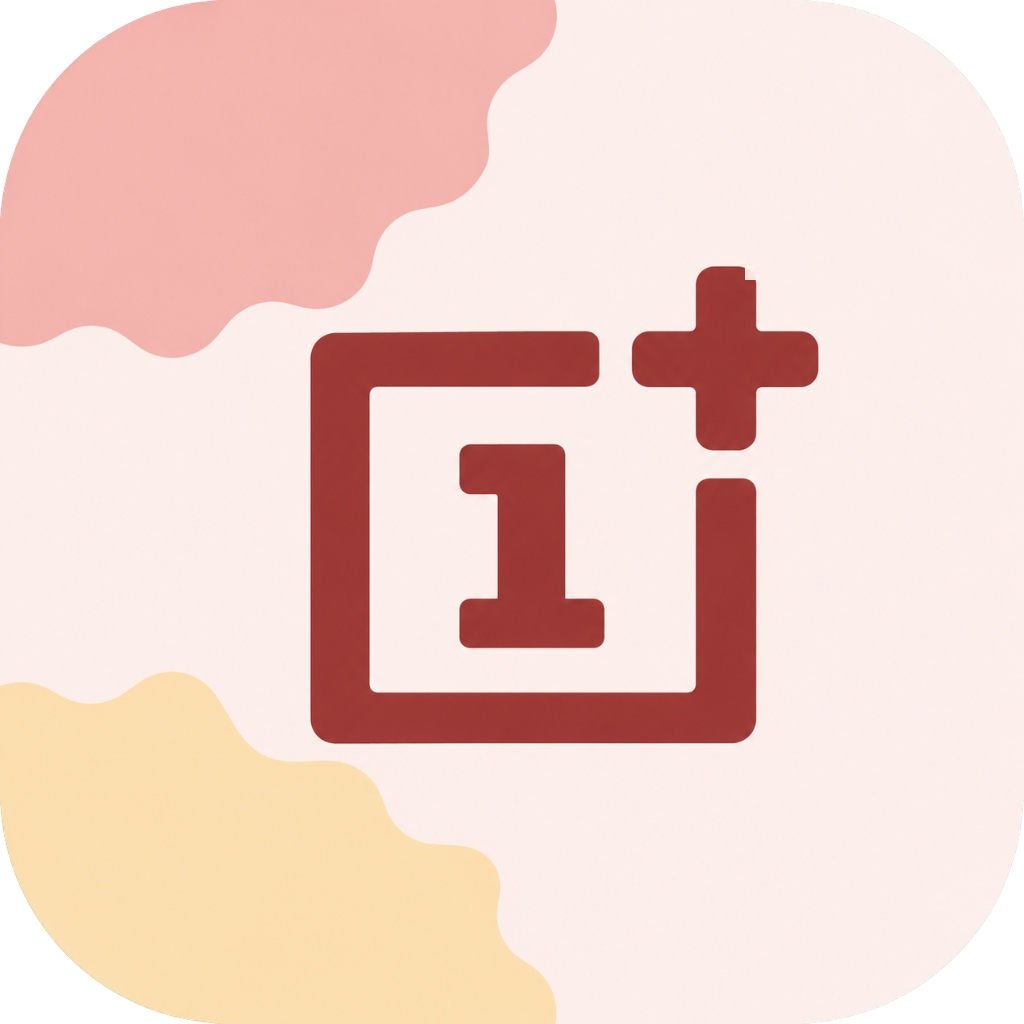
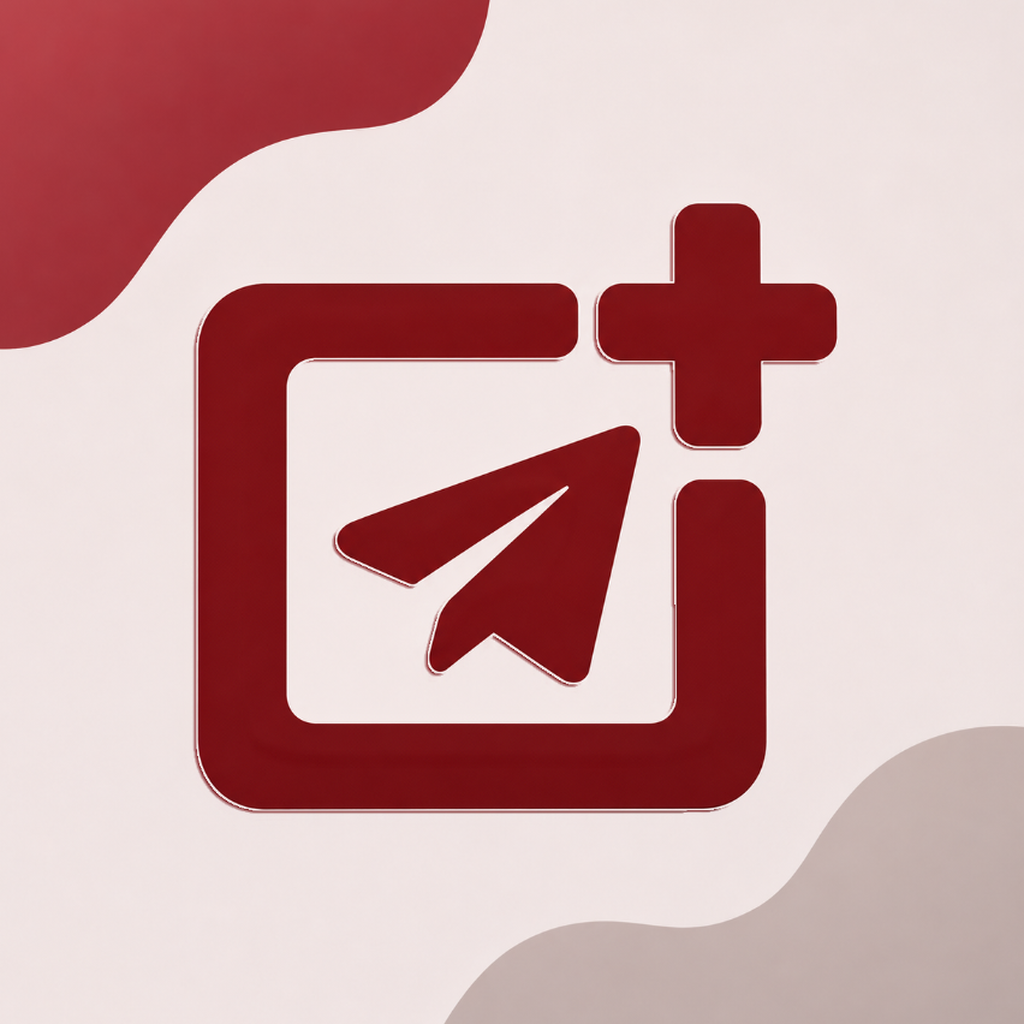
Release Plusgram 5.3.6 with smoother weather and new branding

diff --git a/Tools/prepare_plusgram_icons.py b/Tools/prepare_plusgram_icons.py
@@ -1,61 +1,37 @@
-from pathlib import Path
 import argparse
-from PIL import Image, ImageDraw, ImageOps, ImageChops
-import numpy as np
+from pathlib import Path
+
+from PIL import Image, ImageChops, ImageDraw, ImageOps
 
 ROOT = Path(__file__).resolve().parents[1]
 RES = ROOT / 'TMessagesProj/src/main/res'
 
 
-def remove_black_corners(image_rgb: Image.Image) -> Image.Image:
-    """Removes outer black background from a rounded squircle image with smooth antialiasing."""
-    arr = np.array(image_rgb.convert('RGB')).astype(float)
-    lum = 0.299 * arr[:, :, 0] + 0.587 * arr[:, :, 1] + 0.114 * arr[:, :, 2]
-    H, W = lum.shape
+def adaptive_layer(canvas: Image.Image, scale: float) -> Image.Image:
+    # The central 72dp match the square preview. Extend edge colors into the
+    # extra 18dp on each side so launcher motion cannot expose a seam.
+    size = round(108 * scale)
+    inset = round(18 * scale)
+    art_size = size - 2 * inset
+    art = canvas.resize((art_size, art_size), Image.Resampling.LANCZOS)
+    strip = Image.new('RGBA', (size, art_size))
+    strip.paste(art, (inset, 0))
+    for edge, left in [(0, 0), (art_size - 1, inset + art_size)]:
+        column = art.crop((edge, 0, edge + 1, art_size))
+        strip.paste(column.resize((inset, art_size), Image.Resampling.NEAREST), (left, 0))
 
-    alpha = np.ones((H, W), dtype=float) * 255.0
-
-    # Corners region: x < 280 or x > W - 280, y < 280 or y > H - 280
-    for y in range(H):
-        for x in range(W):
-            if (x < 280 or x > W - 280) and (y < 280 or y > H - 280):
-                # Expected background color of the squircle in this corner
-                if x < W / 2 and y < H / 2:
-                    bg_lum = 198.0  # top-left pink
-                elif x < W / 2 and y >= H / 2:
-                    bg_lum = 220.0  # bottom-left yellow
-                else:
-                    bg_lum = 243.0  # right side cream
-
-                val = lum[y, x] / bg_lum
-                val = max(0.0, min(1.0, val))
-
-                if val < 0.05:
-                    alpha[y, x] = 0.0
-                    arr[y, x] = [0.0, 0.0, 0.0]
-                elif val > 0.95:
-                    alpha[y, x] = 255.0
-                else:
-                    a = ((val - 0.05) / 0.90) * 255.0
-                    alpha[y, x] = a
-                    # Unpremultiply so there is no dark fringe at the border
-                    a_frac = max(0.01, a / 255.0)
-                    arr[y, x] = np.clip(arr[y, x] / a_frac, 0, 255)
-
-    rgba = np.dstack([arr.astype(np.uint8), alpha.astype(np.uint8)])
-    return Image.fromarray(rgba, 'RGBA')
+    layer = Image.new('RGBA', (size, size))
+    layer.paste(strip, (0, inset))
+    for edge, top in [(0, 0), (art_size - 1, inset + art_size)]:
+        row = strip.crop((0, edge, size, edge + 1))
+        layer.paste(row.resize((size, inset), Image.Resampling.NEAREST), (0, top))
+    return layer
 
 
 def generate_icons(source_path: Path):
-    source_raw = Image.open(source_path)
-    # Remove black corners if present
-    artwork = remove_black_corners(source_raw)
+    with Image.open(source_path) as artwork:
+        canvas = ImageOps.fit(artwork.convert('RGBA'), (1024, 1024), Image.Resampling.LANCZOS)
 
-    square = ImageOps.contain(artwork, (1024, 1024), Image.Resampling.LANCZOS)
-    canvas = Image.new('RGBA', (1024, 1024), (0, 0, 0, 0))
-    canvas.alpha_composite(square, ((1024 - square.width) // 2, (1024 - square.height) // 2))
-
-    # Save master assets
     canvas.save(ROOT / 'assets/plusgram-icon-source.png')
     canvas.resize((512, 512), Image.Resampling.LANCZOS).save(ROOT / 'assets/logo.png')
 
@@ -70,23 +46,17 @@ def generate_icons(source_path: Path):
         icon.save(mipmap / 'ic_launcher.png')
         icon.save(drawable / 'plusgram_icon.png')
 
-        # Round icon with circular mask
-        mask = Image.new('L', (size * 4, size * 4), 0)
+        mask = Image.new('L', (size * 4, size * 4))
         ImageDraw.Draw(mask).ellipse((0, 0, size * 4 - 1, size * 4 - 1), fill=255)
         mask = mask.resize((size, size), Image.Resampling.LANCZOS)
         rounded = icon.copy()
         rounded.putalpha(ImageChops.multiply(icon.getchannel('A'), mask))
         rounded.save(mipmap / 'ic_launcher_round.png')
 
-        # Adaptive icon foreground (108x108 with 72x72 safe artwork)
-        layer_size = round(108 * scale)
-        artwork_size = round(72 * scale)
-        layer = Image.new('RGBA', (layer_size, layer_size), (0, 0, 0, 0))
-        offset = (layer_size - artwork_size) // 2
-        layer.alpha_composite(canvas.resize((artwork_size, artwork_size), Image.Resampling.LANCZOS), (offset, offset))
+        layer = adaptive_layer(canvas, scale)
         layer.save(drawable / 'plusgram_icon_foreground.png')
+        layer.save(mipmap / 'ic_launcher_foreground.png')
 
-    # XML resources
     adaptive = '''<?xml version="1.0" encoding="utf-8"?>
 <adaptive-icon xmlns:android="http://schemas.android.com/apk/res/android">
     <background android:drawable="@drawable/plusgram_icon_background" />
@@ -101,17 +71,18 @@ def generate_icons(source_path: Path):
     (RES / 'drawable').mkdir(parents=True, exist_ok=True)
     (RES / 'drawable/plusgram_icon_background.xml').write_text('''<?xml version="1.0" encoding="utf-8"?>
 <shape xmlns:android="http://schemas.android.com/apk/res/android" android:shape="rectangle">
-    <solid android:color="#FCEDEA" />
+    <solid android:color="#F0E3E1" />
 </shape>
 ''', encoding='utf-8')
 
-    mark = '''<path android:fillColor="#00000000" android:strokeColor="#FFFFFFFF"
-        android:strokeWidth="1.8" android:strokeLineCap="round" android:strokeLineJoin="round"
-        android:pathData="M12,5 H5 V19 H19 V12 M16,5 H21 M18.5,2.5 V7.5 M10,9 H12 V16 M10,16 H14" />'''
+    mark = '''<path android:fillColor="#FFFFFFFF"
+        android:pathData="M13,4.5 H5 Q2.5,4.5 2.5,7 V20 Q2.5,22.5 5,22.5 H18 Q20.5,22.5 20.5,20 V12.4 A1.45,1.45 0 0,0 17.6,12.4 V18.7 Q17.6,19.6 16.7,19.6 H6.3 Q5.4,19.6 5.4,18.7 V8.3 Q5.4,7.4 6.3,7.4 H13 A1.45,1.45 0 0,0 13,4.5 Z
+                          M18,4.5 V2.8 A1.4,1.4 0 0,1 20.8,2.8 V4.5 H22.5 A1.4,1.4 0 0,1 22.5,7.3 H20.8 V9 A1.4,1.4 0 0,1 18,9 V7.3 H16.3 A1.4,1.4 0 0,1 16.3,4.5 Z
+                          M7.5,13 L15.8,9.8 Q16.7,9.5 16.5,10.4 L15,17 Q14.8,17.8 14.1,17.3 L12.1,15.9 L10.6,17.1 Q10,17.6 10.1,16.8 L10.4,15 L14.2,11.7 L9.5,14.6 L7.5,13.8 Q6.7,13.4 7.5,13 Z" />'''
     for name, size, transform in [
-        ('plusgram_icon_monochrome', 108, '<group android:scaleX="2.5" android:scaleY="2.5" android:translateX="24" android:translateY="24">'),
-        ('plusgram_icon_tile', 24, '<group>'),
-        ('plusgram_notification', 24, '<group>'),
+        ('plusgram_icon_monochrome', 108, '<group android:scaleX="2.5" android:scaleY="2.5" android:translateX="21" android:translateY="24">'),
+        ('plusgram_icon_tile', 24, '<group android:translateX="-1.2">'),
+        ('plusgram_notification', 24, '<group android:translateX="-1.2">'),
     ]:
         xml = f'''<?xml version="1.0" encoding="utf-8"?>
 <vector xmlns:android="http://schemas.android.com/apk/res/android" android:width="{size}dp" android:height="{size}dp" android:viewportWidth="{size}" android:viewportHeight="{size}">
@@ -120,7 +91,7 @@ def generate_icons(source_path: Path):
 '''
         (RES / 'drawable' / f'{name}.xml').write_text(xml, encoding='utf-8')
 
-    print('Successfully generated all Plusgram icon assets with clean alpha.')
+    print('Successfully generated all Plusgram icon assets.')
 
 
 if __name__ == '__main__':

diff --git a/TMessagesProj/src/main/java/com/plusgram/app/appearance/HeaderWeatherEffect.java b/TMessagesProj/src/main/java/com/plusgram/app/appearance/HeaderWeatherEffect.java
@@ -25,11 +25,13 @@ public final class HeaderWeatherEffect {
     public static final int RAIN = 6;
 
     private static final int DROPS_PER_LAYER = 18;
+    private static final int FRAME_INTERVAL_MS = 33;
     private final Paint paint = new Paint(Paint.ANTI_ALIAS_FLAG | Paint.FILTER_BITMAP_FLAG);
     private final Path lightning = new Path();
     private final Path lightningBranches = new Path();
     private final Random random = new Random();
     private long animationStarted;
+    private long nextFrameAt;
     private int currentEffect;
     private int width;
     private int height;
@@ -77,10 +79,13 @@ public final class HeaderWeatherEffect {
             animationStarted = now;
         }
         boolean animate = MotionConfig.enabled();
-        float seconds = animate ? ((now - animationStarted) / 33) * .033f : 0f;
+        long elapsed = now - animationStarted;
+        float seconds = animate ? (elapsed / FRAME_INTERVAL_MS) * (FRAME_INTERVAL_MS / 1000f) : 0f;
         drawFrame(canvas, effect, view.getWidth(), top, bottom, dark, seconds, animate);
-        if (animate && view.isShown() && view.getWindowVisibility() == View.VISIBLE) {
-            view.postInvalidateDelayed(33);
+        if (animate && now >= nextFrameAt && view.getWindowVisibility() == View.VISIBLE && view.isShown()) {
+            long delay = FRAME_INTERVAL_MS - elapsed % FRAME_INTERVAL_MS;
+            nextFrameAt = now + delay;
+            view.postInvalidateDelayed(delay, 0, top, view.getWidth(), bottom);
         }
     }
 
@@ -111,9 +116,9 @@ public final class HeaderWeatherEffect {
         auroraBounds.set(0, 0, width, height);
         auroraMist = haze(width * .69f, height * .56f, width * .60f, height * .49f,
                 dark ? 0x586B94CF : 0x376EA6BB);
-        cloudBank = haze(width * .70f, height * .15f, width * .64f, height * .75f,
+        cloudBank = haze(width * .70f, height * .36f, width * .72f, height * .36f,
                 dark ? 0xAA4F6290 : 0x807583A0);
-        cloudVeil = haze(width * .42f, height * .42f, width * .55f, height * .48f,
+        cloudVeil = haze(width * .42f, height * .54f, width * .65f, height * .42f,
                 dark ? 0x894E7292 : 0x6A7896A9);
         lightningGlow = new RadialGradient(0, 0, 1f,
                 dark ? 0x805F81F7 : 0x58617DEC, 0x00516ED6, Shader.TileMode.CLAMP);
@@ -234,11 +239,14 @@ public final class HeaderWeatherEffect {
             float y = fraction * (height + 2 * length) - length;
             float column = drop.column + pass * drop.step;
             float x = (column - (float) Math.floor(column)) * width - y * wind;
-            float edgeFade = Math.min(1f, Math.min(fraction, 1f - fraction) * 6f);
+            float tailY = y - length;
+            // Fade the whole streak clear of the toolbar edges, including its rounded tips.
+            float edgeFade = smoothstep((Math.min(tailY, height - y) - height * drop.thickness * .5f)
+                    / (height * .20f));
             float contrast = .55f + .45f * Math.min(1f, x / width + .18f);
             int opacity = (int) (drop.opacity * edgeFade * contrast * (storm ? 1.15f : 1f));
+            if (opacity == 0) continue;
             float tailX = x + length * wind;
-            float tailY = y - length;
             float midX = (x + tailX) * .5f;
             float midY = (y + tailY) * .5f;
             paint.setStrokeWidth(height * drop.thickness);
@@ -256,8 +264,8 @@ public final class HeaderWeatherEffect {
         if (boltCycle != cycle) prepareBolt(cycle);
         float brightness = 1f - age / .46f;
         brightness *= brightness;
-        glowPosition.setScale(height * 1.9f, height * .65f);
-        glowPosition.postTranslate(boltX, height * .37f);
+        glowPosition.setScale(height * 1.9f, height * .40f);
+        glowPosition.postTranslate(boltX, height * .43f);
         lightningGlow.setLocalMatrix(glowPosition);
         wash(canvas, lightningGlow, (int) (brightness * 150));
 
@@ -281,13 +289,13 @@ public final class HeaderWeatherEffect {
         random.setSeed(93L + cycle);
         boltX = width * (.52f + .20f * random.nextFloat());
         float x = boltX;
-        float y = height * .06f;
+        float y = height * .10f;
         lightning.rewind();
         lightningBranches.rewind();
         lightning.moveTo(x, y);
         for (int i = 0; i < 9; i++) {
             x += height * (.3f * random.nextFloat() - .16f);
-            y += height * (.055f + .026f * random.nextFloat());
+            y += height * (.050f + .019f * random.nextFloat());
             lightning.lineTo(x, y);
             if (i == 2 || i == 4 || i == 6) {
                 float direction = i == 4 ? -1f : 1f;

diff --git a/TMessagesProj/src/main/java/org/telegram/messenger/ApplicationLoader.java b/TMessagesProj/src/main/java/org/telegram/messenger/ApplicationLoader.java
@@ -76,7 +76,6 @@ public class ApplicationLoader extends Application implements CameraXConfig.Prov
 
     public static ApplicationLoader applicationLoaderInstance;
 
-    private static PendingIntent pendingIntent;
 
     @SuppressLint("StaticFieldLeak")
     public static volatile Context applicationContext;
@@ -469,33 +468,31 @@ public class ApplicationLoader extends Application implements CameraXConfig.Prov
             editor.apply();
             ConnectionsManager.getInstance(UserConfig.selectedAccount).setPushConnectionEnabled(enabled);
         }
-        if (enabled) {
-            AndroidUtilities.runOnUIThread(() -> {
+        AndroidUtilities.runOnUIThread(() -> {
+            Intent intent = new Intent(applicationContext, NotificationsService.class);
+            AlarmManager alarm = (AlarmManager) applicationContext.getSystemService(Context.ALARM_SERVICE);
+            if (enabled) {
                 try {
                     Log.d("TFOSS", "Starting push service...");
-                    applicationContext.startForegroundService(new Intent(applicationContext, NotificationsService.class));
+                    applicationContext.startForegroundService(intent);
 
-                    Log.d("TFOSS", "Trying to start push service every 10 minutes");
-                    // Telegram-FOSS: unconditionally enable push service
-                    AlarmManager am = (AlarmManager) applicationContext.getSystemService(Context.ALARM_SERVICE);
-                    Intent i = new Intent(applicationContext, NotificationsService.class);
-                    pendingIntent = PendingIntent.getForegroundService(applicationContext, 0, i, PendingIntent.FLAG_IMMUTABLE);
-
-                    am.cancel(pendingIntent);
-                    am.setInexactRepeating(AlarmManager.RTC_WAKEUP, System.currentTimeMillis(), 10 * 60 * 1000, pendingIntent);
+                    PendingIntent restart = PendingIntent.getForegroundService(applicationContext, 0, intent, PendingIntent.FLAG_IMMUTABLE);
+                    long interval = 10 * 60 * 1000L;
+                    alarm.setInexactRepeating(AlarmManager.ELAPSED_REALTIME_WAKEUP,
+                            SystemClock.elapsedRealtime() + interval, interval, restart);
                 } catch (Throwable e) {
-                    Log.e("TFOSS", "Failed to start push service");
+                    Log.e("TFOSS", "Failed to start push service", e);
                 }
-            });
-
-        } else AndroidUtilities.runOnUIThread(() -> {
-            applicationContext.stopService(new Intent(applicationContext, NotificationsService.class));
-
-            PendingIntent pintent = PendingIntent.getService(applicationContext, 0, new Intent(applicationContext, NotificationsService.class), PendingIntent.FLAG_MUTABLE);
-            AlarmManager alarm = (AlarmManager)applicationContext.getSystemService(Context.ALARM_SERVICE);
-            alarm.cancel(pintent);
-            if (pendingIntent != null) {
-                alarm.cancel(pendingIntent);
+            } else {
+                if (Build.VERSION.SDK_INT >= Build.VERSION_CODES.O) {
+                    PendingIntent restart = PendingIntent.getForegroundService(applicationContext, 0, intent,
+                            PendingIntent.FLAG_NO_CREATE | PendingIntent.FLAG_IMMUTABLE);
+                    if (restart != null) {
+                        alarm.cancel(restart);
+                        restart.cancel();
+                    }
+                }
+                applicationContext.stopService(intent);
             }
         });
     }
@@ -524,8 +521,8 @@ public class ApplicationLoader extends Application implements CameraXConfig.Prov
                 }
                 SharedConfig.pushStringStatus = "__NO_GOOGLE_PLAY_SERVICES__";
                 PushListenerController.sendRegistrationToServer(getPushProvider().getPushType(), null);
-                startPushService();
             }
+            startPushService();
         }, 1000);
     }
 

diff --git a/TMessagesProj/src/main/java/org/telegram/ui/Cells/ThemePreviewMessagesCell.java b/TMessagesProj/src/main/java/org/telegram/ui/Cells/ThemePreviewMessagesCell.java
@@ -84,6 +84,9 @@ public class ThemePreviewMessagesCell extends LinearLayout {
     @SuppressLint("ClickableViewAccessibility")
     public ThemePreviewMessagesCell(Context context, INavigationLayout layout, int type, long dialogId, Theme.ResourcesProvider resourcesProvider) {
         super(context);
+        if (Theme.chat_msgInDrawable == null) {
+            Theme.createChatResources(context, false);
+        }
         this.type = type;
         int currentAccount = UserConfig.selectedAccount;
         parentLayout = layout;

diff --git a/RELEASE_NOTES.md b/RELEASE_NOTES.md
@@ -1,4 +1,11 @@
-# Plusgram 5.3.5
+# Plusgram 5.3.6
+
+- Softened the edges of Rain and Thunderstorm so clouds, raindrops, and lightning blend into the chat list header in light and dark themes.
+- Replaced the default Plusgram icon with the burgundy paper plane and plus mark across the Android launcher, icon picker, in-app branding, and README. Updated the monochrome notification and themed icons to match.
+- Fixed a crash when opening Chat Settings before the chat preview resources were loaded.
+- Fixed a background timer that could keep waking the built-in notification service after switching to FCM. The built-in service also skips the immediate duplicate wakeup when it starts.
+
+## Plusgram 5.3.5
 
 - Redesigned Northern Lights with softly layered, slowly drifting curtains.
 - Reworked Rain and Thunderstorm with wind-driven streaks at different depths, cloud haze, and occasional branching lightning.
